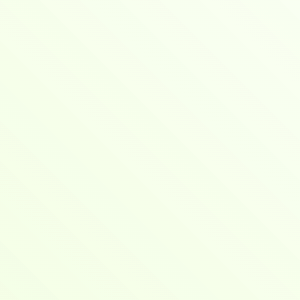
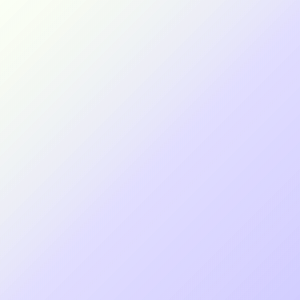
Fix up look sharp

diff --git a/app/(tabs)/listen.tsx b/app/(tabs)/listen.tsx
@@ -34,88 +34,104 @@ export default function ListenScreen() {
   const [showTitle, setShowTitle] = useState<string>(' ')
   const [showDescription, setShowDescription] = useState<string>(' ')
   const [artistName, setArtistName] = useState<string>('éist · off air')
-  // Use ImageSourcePropType so we can mix require(...) & {uri: string}
   const [artistImage, setArtistImage] = useState<ImageSourcePropType>(
     placeholderOfflineImage
-  )
+    )
   const [broadcastStatus, setBroadcastStatus] = useState<string>('off air')
 
-  // Fetch artist details by ID
+  // Helper: flatten Rich Text blocks to plain text
+  const parseDescription = (blocks: any[]): string => {
+    return (
+      blocks
+      .map(block => {
+        if (!Array.isArray(block.content)) return ''
+          return block.content
+        .map(child => {
+          if (child.type === 'text') return child.text
+            if (child.type === 'hardBreak') return '\n'
+              return ''
+          })
+        .join('')
+      })
+      .filter(Boolean)
+      .join('\n\n') || ' '
+      )
+  }
+
+  // Fetch artist details by ID (unchanged)
   const getArtistDetails = useCallback(
     async (artistId: string | null) => {
       if (!artistId) {
         return {
           name: ' ',
-          bio: ' ',
           image: placeholderArtistImage as ImageSourcePropType,
         }
       }
       try {
         const res = await fetch(`${apiUrl}/artists/${artistId}`, {
-          headers: {
-            'x-api-key': apiKey,
-            'Content-Type': 'application/json',
-          },
+          headers: { 'x-api-key': apiKey, 'Content-Type': 'application/json' },
         })
         if (!res.ok) throw new Error(`HTTP ${res.status}`)
-        const json = await res.json()
+          const json = await res.json()
         const artist = json.artist || {}
         const imageUrl: string | undefined = artist.logo?.['256x256']
+
         return {
           name: artist.name || ' ',
-          bio:
-            artist.description?.content?.[0]?.content?.[0]?.text ||
-            'No description available',
-          // wrap remote URL in { uri }
           image: imageUrl
-            ? ({ uri: imageUrl } as ImageSourcePropType)
-            : (placeholderArtistImage as ImageSourcePropType),
+          ? ({ uri: imageUrl } as ImageSourcePropType)
+          : (placeholderArtistImage as ImageSourcePropType),
         }
       } catch (err) {
         console.error('getArtistDetails failed', err)
         return {
           name: ' ',
-          bio: ' ',
           image: placeholderArtistImage as ImageSourcePropType,
         }
       }
     },
     []
-  )
+    )
 
-  // Fetch now‐playing + artist → update state
+  // Fetch now‐playing + artist → update state, including playlist track info
   const fetchNowPlaying = useCallback(async () => {
     try {
       const res = await fetch(`${apiUrl}/schedule/live`, {
-        headers: {
-          'x-api-key': apiKey,
-          'Content-Type': 'application/json',
-        },
+        headers: { 'x-api-key': apiKey, 'Content-Type': 'application/json' },
       })
       if (!res.ok) throw new Error(`HTTP ${res.status}`)
-      const data = await res.json()
-      const { status, content } = data.result
+
+        const data = await res.json()
+      const { status, content, metadata } = data.result
+
       setBroadcastStatus(status)
 
       if (status !== 'schedule') {
-        // Off air: show offline placeholder
         setShowTitle(' ')
         setArtistName('éist · off air')
         setArtistImage(placeholderOfflineImage)
         setShowDescription(' ')
       } else {
-        // Live: fetch artist details
-        const title = content.title || ' '
-        setShowTitle(title)
+        // Show title
+        setShowTitle(content.title || ' ')
+
+        // Artist info
         const artistId = content.artistIds?.[0] ?? null
-        const details = await getArtistDetails(artistId)
-        setArtistName(details.name)
-        setArtistImage(details.image)
-        setShowDescription(details.bio)
+        const { name, image } = await getArtistDetails(artistId)
+        setArtistName(name)
+        setArtistImage(image)
+
+        // Show description from content.description
+        let desc = parseDescription(content.description?.content || [])
+
+        // If playlist, append current track
+        if (content.media?.type === 'playlist' && metadata?.title) {
+          desc += `\n\nNow playing: ${metadata.title}`
+        }
+        setShowDescription(desc)
       }
     } catch (err) {
       console.error('fetchNowPlaying failed', err)
-      // On error: fallback to offline
       setBroadcastStatus('error')
       setShowTitle(' ')
       setArtistName('éist · off air')
@@ -131,14 +147,14 @@ export default function ListenScreen() {
       const interval = setInterval(fetchNowPlaying, 30000)
       return () => clearInterval(interval)
     }, [fetchNowPlaying])
-  )
+    )
 
   // Play/pause icon
   const iconName = isPlaying ? 'pause-circle' : 'play-circle'
 
   return (
     <View style={[styles.screen, { backgroundColor: colors.background }]}>
-      {/* Top half: artist image (or placeholder) + gradient + logo */}
+      {/* Top half: artist image + gradient + logo */}
       <View style={[styles.imageContainer, { height: height / 2 }]}>
         <Image
           source={artistImage}
@@ -159,7 +175,7 @@ export default function ListenScreen() {
         </View>
       </View>
 
-      {/* Bottom half: controls + now-playing info */}
+      {/* Bottom half: controls + now‐playing info */}
       <View style={styles.bottom}>
         <View style={styles.controlContainer}>
           <TouchableOpacity onPress={togglePlay} style={styles.playButton}>
@@ -167,7 +183,7 @@ export default function ListenScreen() {
           </TouchableOpacity>
           <ThemedText
             type="subtitle"
-            style={[styles.artistName, { color: colors.text }]}
+            style={[styles.artistNameWrapped, { color: colors.text }]}
           >
             {artistName}
           </ThemedText>
@@ -192,7 +208,7 @@ export default function ListenScreen() {
         </ScrollView>
       </View>
     </View>
-  )
+    )
 }
 
 const styles = StyleSheet.create({
@@ -214,6 +230,12 @@ const styles = StyleSheet.create({
     paddingBottom: 12,
     alignItems: 'flex-start',
   },
+  artistNameWrapped: {
+    fontSize: 28,
+    fontWeight: '700',
+    flexShrink: 1,
+    flexWrap: 'wrap',
+  },
   controlContainer: {
     flexDirection: 'row',
     alignItems: 'center',
@@ -223,9 +245,6 @@ const styles = StyleSheet.create({
   playButton: {
     marginRight: 16,
   },
-  artistName: {
-    fontSize: 26,
-  },
   nowPlayingContainer: {
     flex: 1,
     width: '100%',
@@ -234,11 +253,12 @@ const styles = StyleSheet.create({
     paddingHorizontal: 12,
   },
   showTitle: {
-    fontSize: 20,
+    fontSize: 24,
+    fontWeight: '500',
     marginBottom: 6,
   },
   showDescription: {
-    fontSize: 16,
+    fontSize: 18,
     lineHeight: 22,
   },
 })

diff --git a/app/(tabs)/schedule.tsx b/app/(tabs)/schedule.tsx
@@ -69,7 +69,6 @@ export default function ScheduleScreen() {
     const tz = Intl.DateTimeFormat().resolvedOptions().timeZone;
     const buckets: Record<string, RawScheduleItem[]> = {};
 
-    // bucket by date (rolling back midnight UTC)
     items.forEach(item => {
       const d = new Date(item.startDateUtc);
       let dateKey = d.toISOString().split('T')[0];
@@ -83,7 +82,6 @@ export default function ScheduleScreen() {
       }
     });
 
-    // build sections
     return Object.entries(buckets)
       .map(([dateKey, dayItems]) => {
         const header = new Date(dateKey).toLocaleDateString(undefined, {
@@ -94,18 +92,14 @@ export default function ScheduleScreen() {
 
         const data = dayItems.map(it => {
           const d = new Date(it.startDateUtc);
-
-          // format without dots in AM/PM
           const raw = d.toLocaleTimeString('en-US', {
             hour: 'numeric',
             minute: '2-digit',
             hour12: true,
             timeZone: tz,
           });
-          const time = raw.toLowerCase(); // e.g. "9:00 am"
-
           return {
-            time,
+            time: raw.toLowerCase(),
             show: it.title.trim(),
           };
         });
@@ -132,7 +126,9 @@ export default function ScheduleScreen() {
 
   return (
     <View style={[styles.container, { backgroundColor: colors.background }]}>
+      {/* Title now shares the same 8px horizontal inset */}
       <Text style={[styles.title, { color: colors.primary }]}>Schedule</Text>
+
       <SectionList
         sections={sections}
         keyExtractor={(item, idx) => item.time + idx}
@@ -169,32 +165,44 @@ export default function ScheduleScreen() {
 }
 
 const styles = StyleSheet.create({
-  container: { flex: 1, paddingTop: 32, paddingHorizontal: 8, marginTop: 48 },
-  title: { fontSize: 24, fontWeight: '700', marginBottom: 8 },
+  container: {
+    flex: 1,
+    paddingTop: 32,
+    paddingHorizontal: 8,  // ← add back horizontal padding
+    marginTop: 48,
+  },
+  title: {
+    fontSize: 28,
+    fontWeight: '700',
+    marginBottom: 8,
+  },
   sectionHeader: {
-    fontSize: 18,
-    fontWeight: '600',
+    fontSize: 20,
+    fontWeight: '700',
     marginTop: 12,
     marginBottom: 4,
   },
   headerRow: {
     flexDirection: 'row',
-    paddingHorizontal: 4,
     paddingVertical: 4,
   },
   headerCell: {
     flex: 1,
-    fontWeight: '600',
+    fontSize: 18,
+    fontWeight: '700',
     textAlign: 'left',
   },
-  list: { paddingBottom: 16 },
+  list: {
+    paddingBottom: 16,
+    // no horizontal padding here
+  },
   row: {
     flexDirection: 'row',
-    paddingHorizontal: 4,
     paddingVertical: 6,
   },
   cell: {
     flex: 1,
+    fontSize: 18,
     textAlign: 'left',
   },
 });

diff --git a/context/AudioContext.tsx b/context/AudioContext.tsx
@@ -17,7 +17,7 @@ const placeholderOnlineImage = require('../assets/images/eist_online.png')
 const placeholderOfflineImage = require('../assets/images/eist_offline.png')
 
 // Live stream & API constants
-const STREAM_URL = 'https://stream-relay-geo.ntslive.net/stream'
+const STREAM_URL = 'https://eist-radio.radiocult.fm/stream'
 const stationId = 'eist-radio'
 const apiUrl = `https://api.radiocult.fm/api/station/${stationId}`
 
@@ -100,12 +100,14 @@ export const AudioProvider = ({ children }: { children: ReactNode }) => {
     () => ({
       uri: STREAM_URL,
       metadata: {
-        title,
-        artist,
+        // combine artist name and station label into the title
+        title: 'éist',
+        // you can clear out or repurpose the artist field
+        artist: `${artist}`,
         artwork,
       },
     }),
-    [title, artist, artwork]
+    [artist, artwork]
   )
 
   // initialize Expo VideoPlayer with lock-screen / background audio
@@ -129,6 +131,7 @@ export const AudioProvider = ({ children }: { children: ReactNode }) => {
       interruptionModeAndroid: 'doNotMix',
       allowsRecording: false,
       shouldRouteThroughEarpiece: false,
+      staysActiveInBackground: true,
     }).catch((err) => console.error('Audio mode failed', err))
   }, [])
 

diff --git a/README.md b/README.md
@@ -49,6 +49,14 @@ Join our community of developers creating universal apps.
 - [Expo on GitHub](https://github.com/expo/expo): View our open source platform and contribute.
 - [Discord community](https://chat.expo.dev): Chat with Expo users and ask questions.
 
+## Colours
+
+```cmd
+$eist: #4733FF !default;
+$eist-secondary: #AFFC41 !default;
+$eist-highlight: #96BFE6 !default;
+```
+
 ## Hack
 
 iOS device testing: